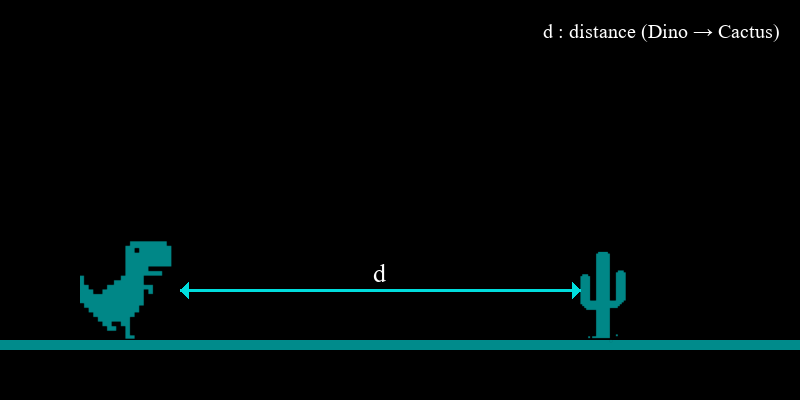
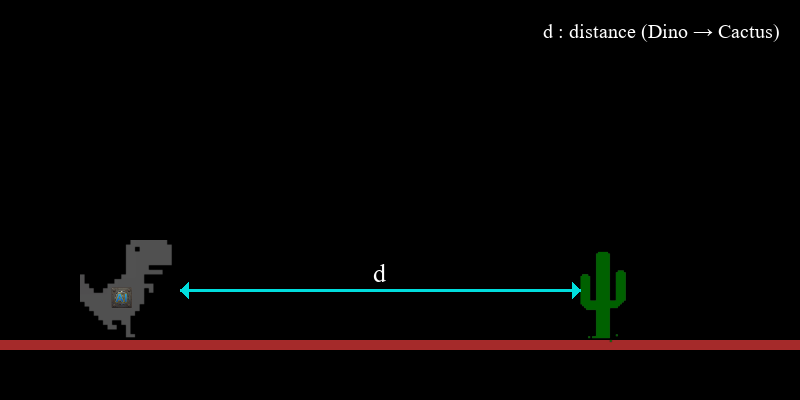
changed costumes for sprites

Changed region(s): [[0.0, 0.6, 1.0, 0.9]]

diff --git a/rehearsal/dino_jump_successful.py b/rehearsal/dino_jump_successful.py
@@ -18,7 +18,7 @@ screen = pygame.display.set_mode((SCREEN_WIDTH, SCREEN_HEIGHT))
 pygame.display.set_caption("Dino Successful Jump Visualization")
 
 BG_COLOR = (0, 0, 0)
-GROUND_COLOR = (0, 139, 139)
+GROUND_COLOR = "brown"
 LINE_COLOR = (0, 220, 220)
 PATH_COLOR = (200, 200, 200)
 TEXT_COLOR = (255, 255, 255)
@@ -42,8 +42,8 @@ os.makedirs(BLOG_ASSETS_DIR, exist_ok=True)
 # -------------------------------------------------
 # Assets
 # -------------------------------------------------
-dino_img = pygame.image.load(os.path.join(ASSETS_DIR, "dino_left.png")).convert_alpha()
-cactus_img = pygame.image.load(os.path.join(ASSETS_DIR, "cactus.png")).convert_alpha()
+dino_img = pygame.image.load(os.path.join(ASSETS_DIR, "dinoai_left.png")).convert_alpha()
+cactus_img = pygame.image.load(os.path.join(ASSETS_DIR, "green_cactus.png")).convert_alpha()
 
 dino_img = pygame.transform.smoothscale(dino_img, (DINO_SIZE, DINO_SIZE))
 cactus_img = pygame.transform.smoothscale(cactus_img, CACTUS_SIZE)

diff --git a/rehearsal/dino_jump_phases.py b/rehearsal/dino_jump_phases.py
@@ -18,7 +18,7 @@ screen = pygame.display.set_mode((SCREEN_WIDTH, SCREEN_HEIGHT))
 pygame.display.set_caption("Dino Jump Decision Visualization")
 
 BG_COLOR = (0, 0, 0)
-GROUND_COLOR = (0, 139, 139)
+GROUND_COLOR = "brown"
 LINE_COLOR = (0, 220, 220)
 PATH_COLOR = (200, 200, 200)
 TEXT_COLOR = (255, 255, 255)
@@ -42,8 +42,8 @@ os.makedirs(BLOG_ASSETS_DIR, exist_ok=True)
 # -------------------------------------------------
 # Assets
 # -------------------------------------------------
-dino_img = pygame.image.load(os.path.join(ASSETS_DIR, "dino_left.png")).convert_alpha()
-cactus_img = pygame.image.load(os.path.join(ASSETS_DIR, "cactus.png")).convert_alpha()
+dino_img = pygame.image.load(os.path.join(ASSETS_DIR, "dinoai_left.png")).convert_alpha()
+cactus_img = pygame.image.load(os.path.join(ASSETS_DIR, "green_cactus.png")).convert_alpha()
 
 dino_img = pygame.transform.smoothscale(dino_img, (DINO_SIZE, DINO_SIZE))
 cactus_img = pygame.transform.smoothscale(cactus_img, CACTUS_SIZE)

diff --git a/rehearsal/dino_cactus_distance.py b/rehearsal/dino_cactus_distance.py
@@ -13,7 +13,7 @@ pygame.display.set_caption("Dino–Cactus Distance Illustration")
 BG_COLOR = (0, 0, 0)
 LINE_COLOR = (0, 220, 220)
 TEXT_COLOR = (255, 255, 255)
-GROUND_COLOR = (0, 139, 139)
+GROUND_COLOR = "brown"
 GROUND_THICKNESS = 10
 
 # -----------------------------
@@ -24,8 +24,8 @@ PROJECT_ROOT = os.path.dirname(os.path.dirname(os.path.abspath(__file__)))
 # -----------------------------
 # Asset paths
 # -----------------------------
-DINO_IMG_PATH = os.path.join(PROJECT_ROOT, "assets", "dino_left.png")
-CACTUS_IMG_PATH = os.path.join(PROJECT_ROOT, "assets", "cactus.png")
+DINO_IMG_PATH = os.path.join(PROJECT_ROOT, "assets", "dinoai_left.png")
+CACTUS_IMG_PATH = os.path.join(PROJECT_ROOT, "assets", "green_cactus.png")
 
 dino_img = pygame.image.load(DINO_IMG_PATH).convert_alpha()
 cactus_img = pygame.image.load(CACTUS_IMG_PATH).convert_alpha()
